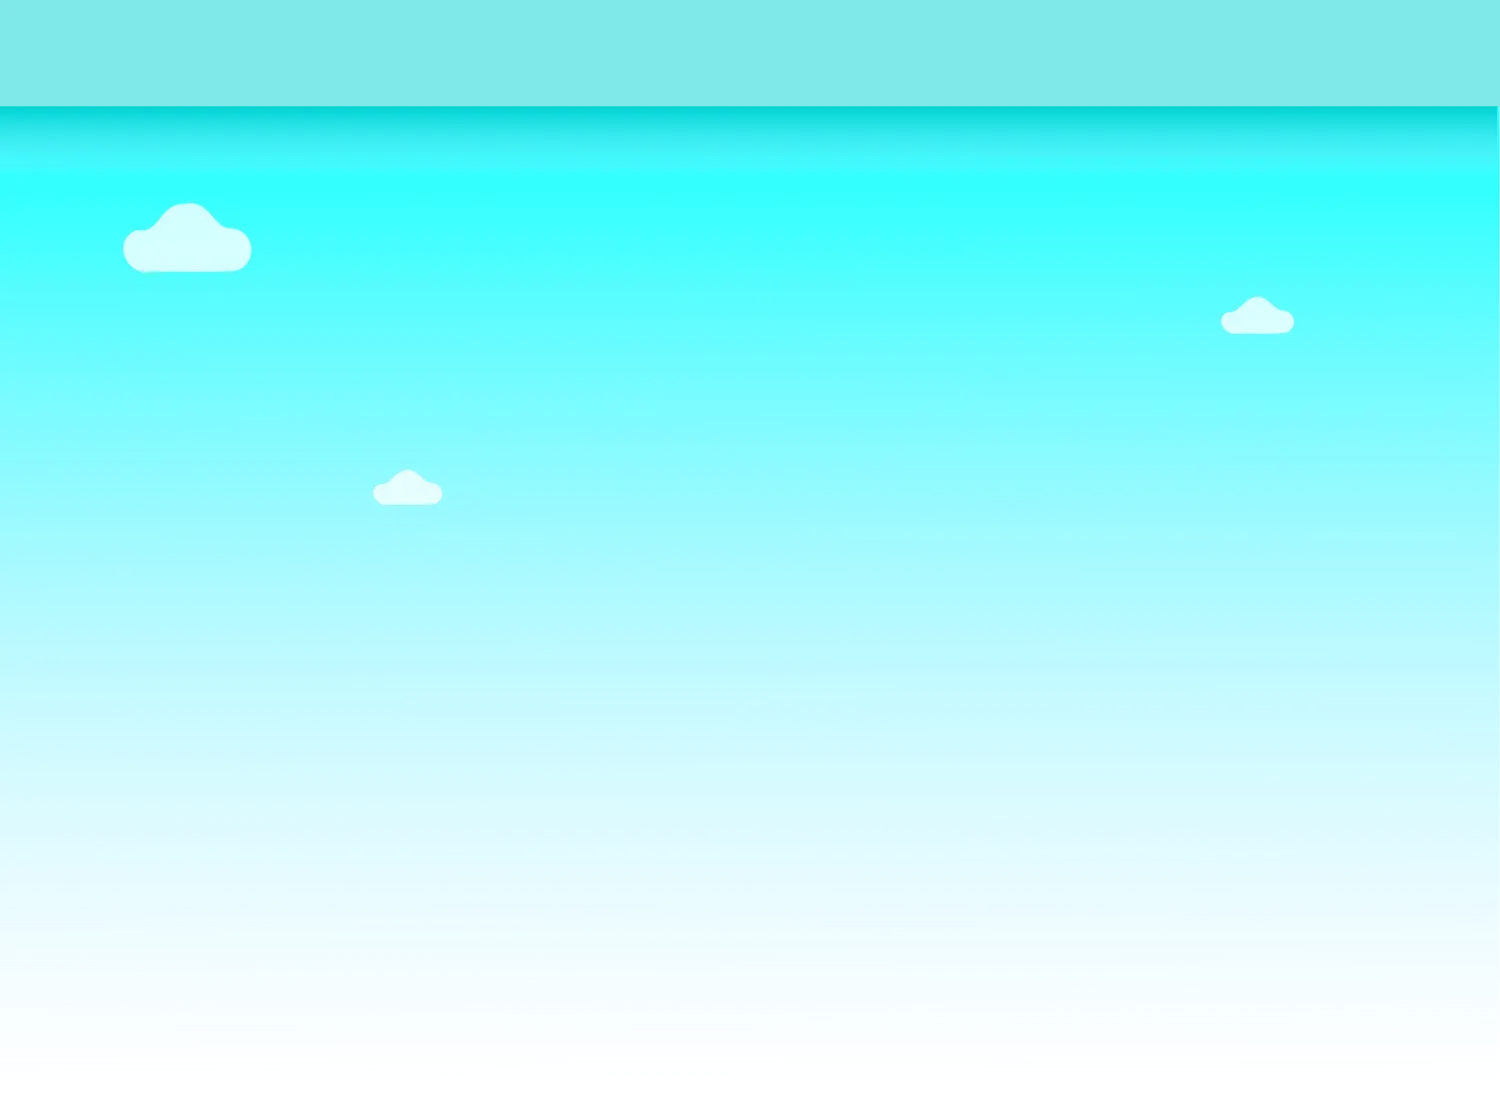
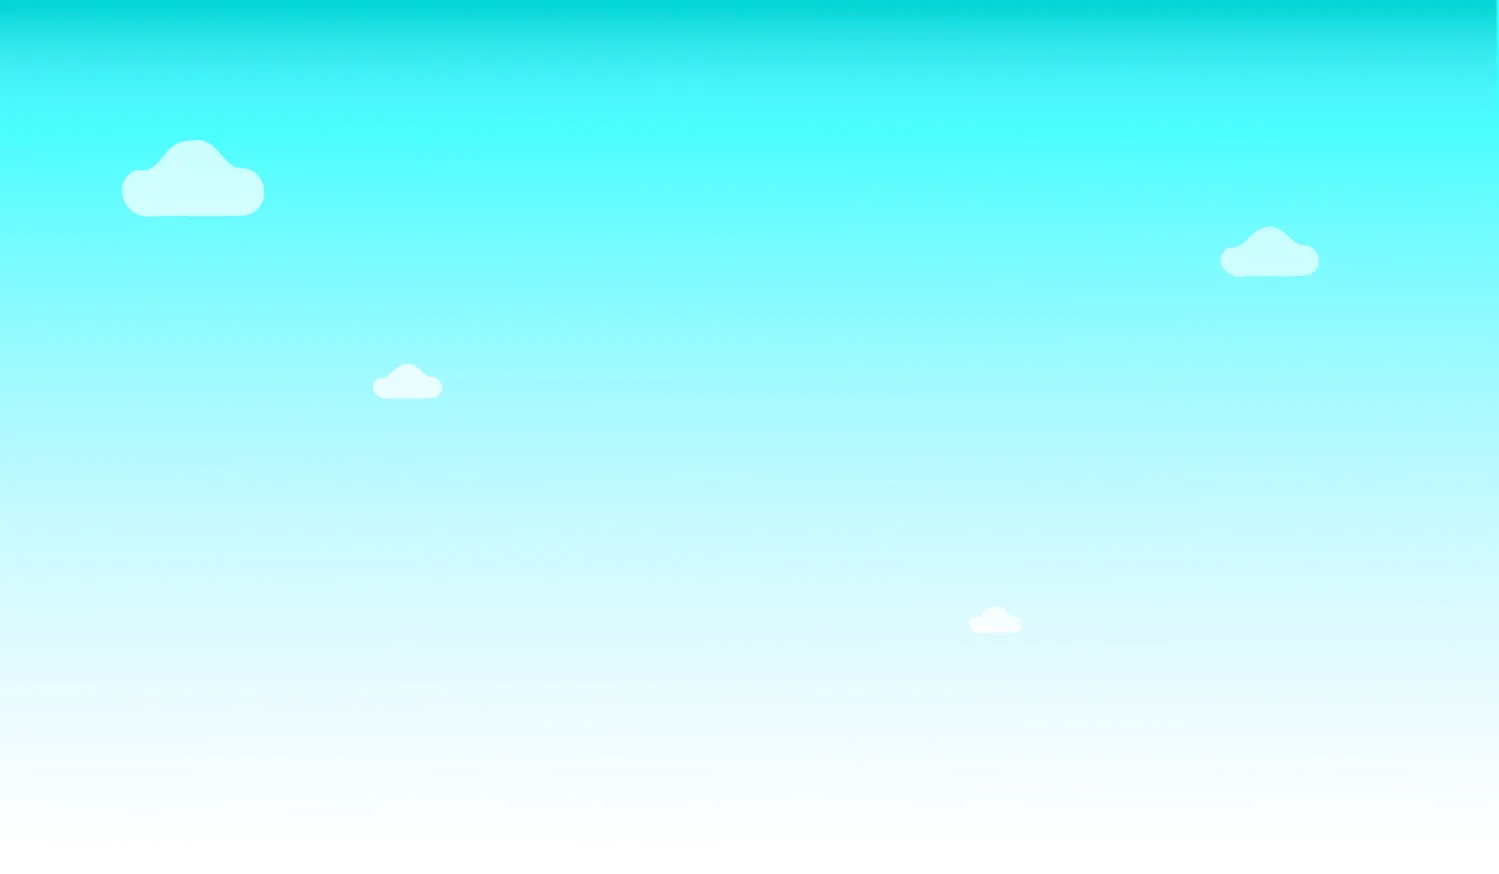
gooo

diff --git a/spring-index.html b/spring-index.html
@@ -226,9 +226,9 @@ body {
 
 @media screen and (min-width: 769px) {
 	body {
-		background: #f7fdff url(webp/spring-cloudback.webp?v1.1) center top repeat-x ;
+		background: #f7fdff url(webp/spring-cloudback.webp?v1.2) center top repeat-x ;
     		box-sizing: border-box;
-		background-size: 1028px;
+		background-size: 80%;
 	}
 }
 @media screen and (min-width: 0px) and (max-width: 768px) {
@@ -262,7 +262,7 @@ body {
 	z-index: 3;
 	position: relative;
 	background: white;
-	/*box-shadow: 0px 0px 12px rgba(0, 0, 0, 0.6);*/
+	box-shadow: 0px 0px 32px rgba(3, 64, 248, 0.6);
 	/*border-bottom: 1px rgb(192, 191, 191);
 	border-top: none;
 	border-right:none;
@@ -277,7 +277,9 @@ body {
 
 .fa {color: rgba(255, 255, 255, 0);
 font-size: 35px !important;
-margin-top:-10px;}
+margin-top:-10px;
+background: url(svgs/grey-emblem-button.svg) no-repeat center;
+	background-size: contain;}
 
 
 @media screen and (min-width: 770px) and (max-width: 2000px) { 
